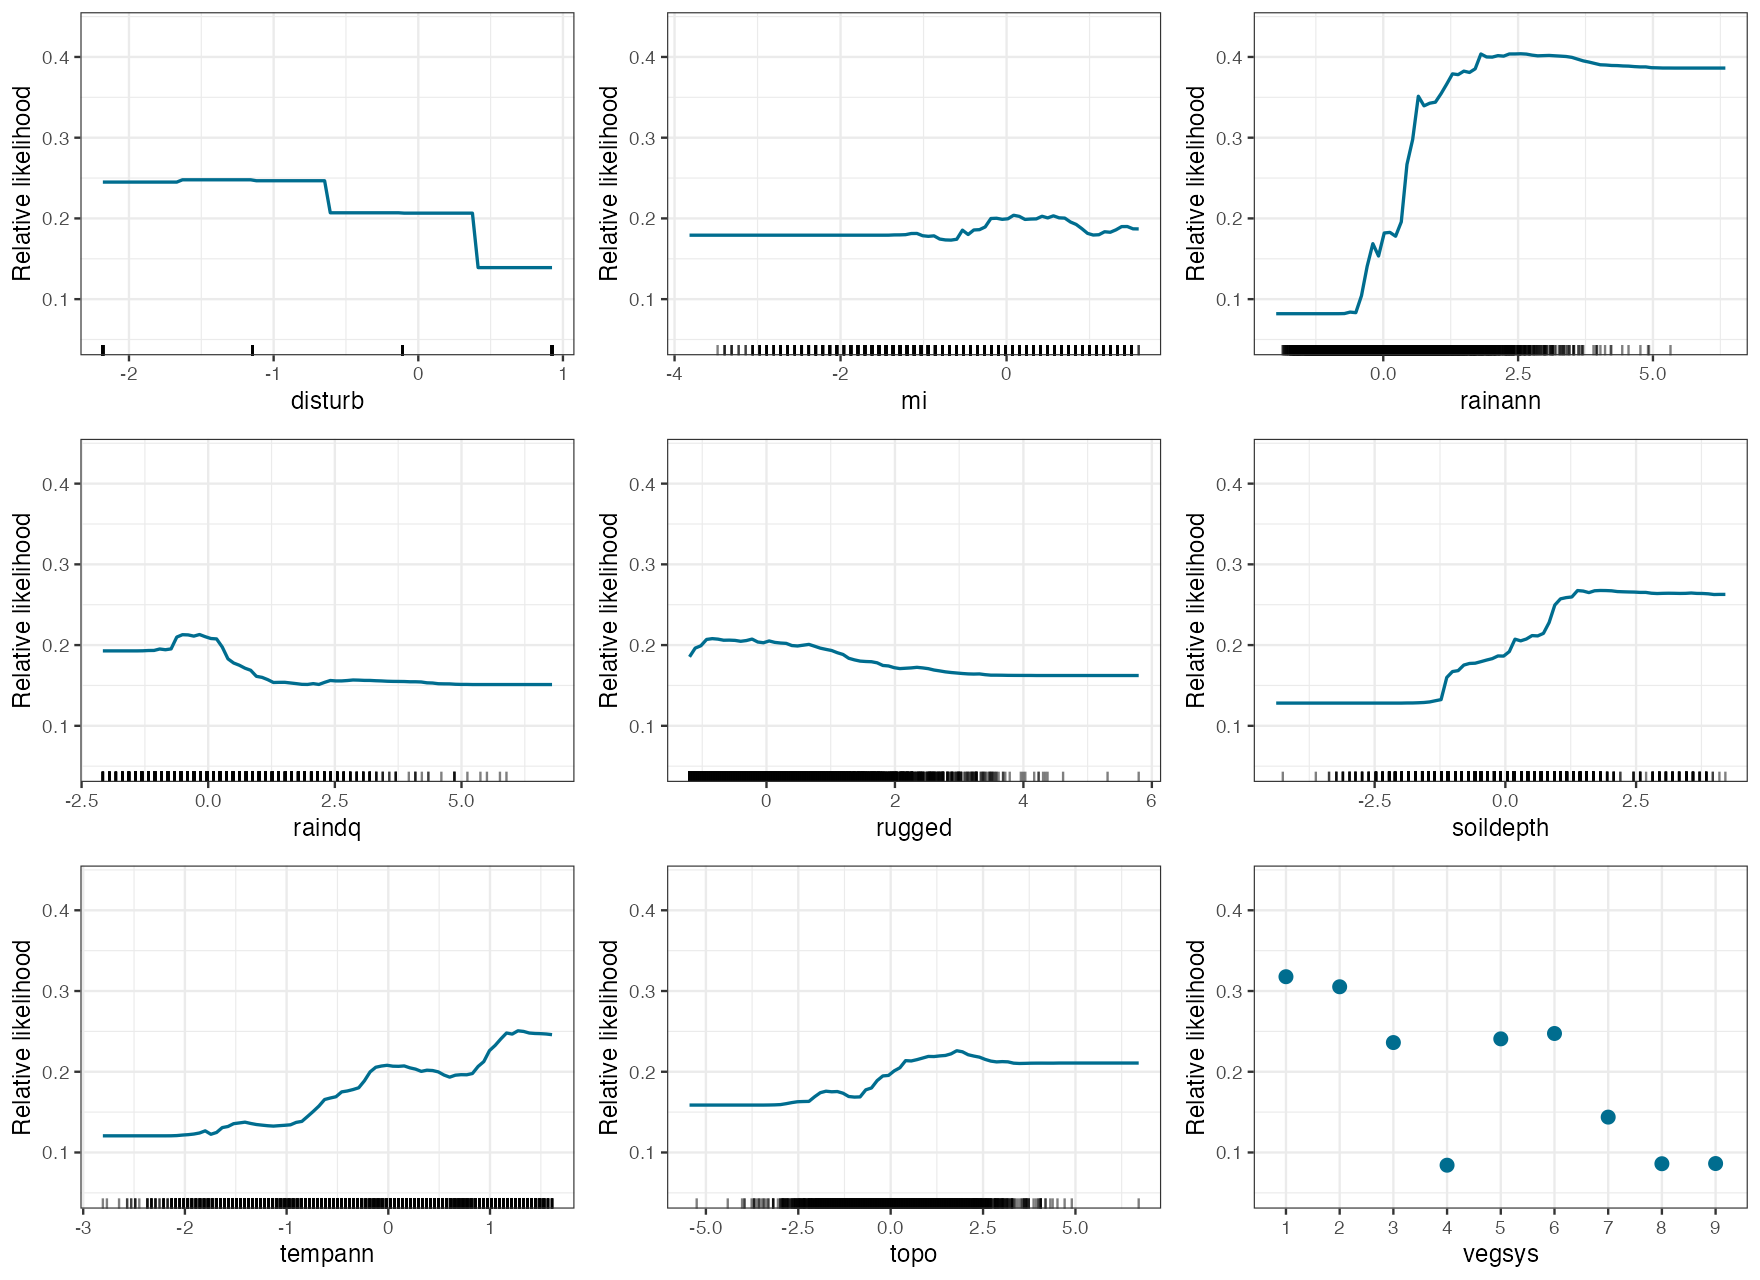
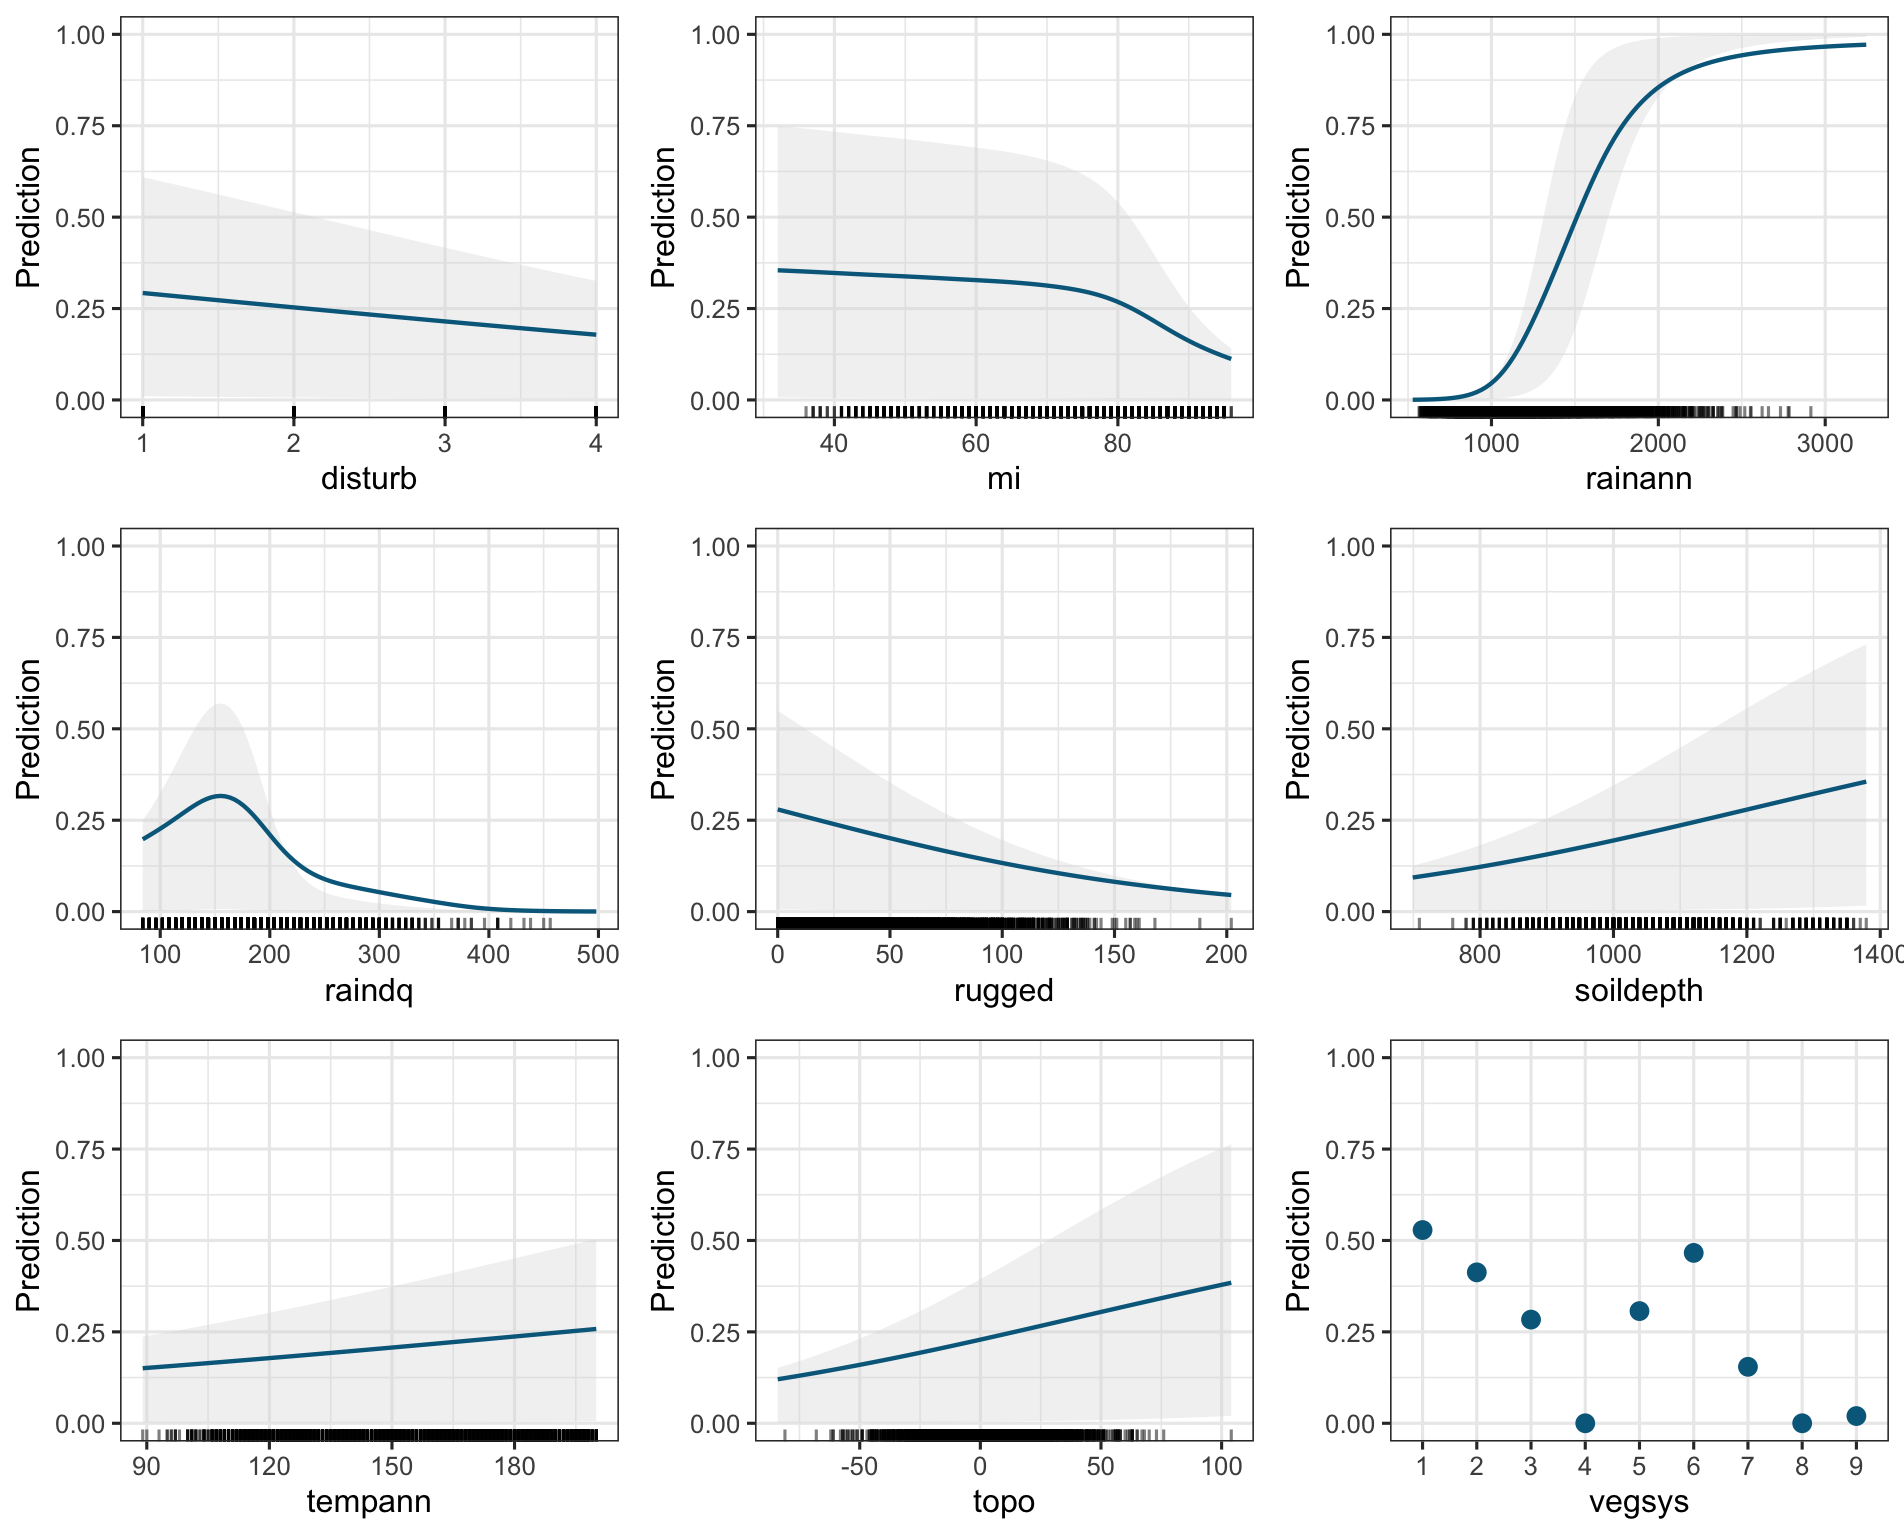
extrapolate ale; multimodel help update

diff --git a/README.md b/README.md
@@ -95,15 +95,17 @@ bivariate(
 )
 ```
 
-For ensemble modelling, pass a list of fitted models to `multimodel()`. The
-ensemble members should be fitted to the same response and compatible
-predictors, and their predictions should be on the same response scale. If a
-set of models shares the same prediction interface, pass non-default
-prediction arguments through `...`. For mixed model types, supply `fun` as a
-list of wrappers, one per model. If a shared prediction function returns
-multiple prediction columns, either set `response` or provide a small wrapper
-through `fun`. Use `agg`, `weights`, `interval`, and `show_models` to control
-how the ensemble curves are combined and displayed.
+For ensemble modelling or repeated-fit comparisons, pass a list of fitted
+models to `multimodel()`. This is useful not only for formal ensembles, but
+also for cross-validation folds, bootstrap or bagged refits, and models fit
+with different background samples or closely related training sets. The models
+should share compatible predictors, and their predictions should be on the
+same response scale. If a set of models shares the same prediction interface,
+pass non-default prediction arguments through `...`. For mixed model types,
+supply `fun` as a list of wrappers, one per model. If a shared prediction
+function returns multiple prediction columns, either set `response` or provide
+a small wrapper through `fun`. Use `agg`, `weights`, `interval`, and
+`show_models` to control how the model curves are combined and displayed.
 
 ```r
 models <- list(

diff --git a/NEWS.md b/NEWS.md
@@ -18,6 +18,9 @@
 - Enabled categorical ALE in `multimodel()` and `mapcurve()`, matching the
   univariate ALE support and using a shared level order across ensemble
   members when `multimodel()` averages unordered factor effects.
+- Added `extrapolate = FALSE` to `bivariate()` so unsupported ALE grid cells
+  remain masked by default but can be shown on request using the interpolated
+  values already used internally for accumulation.
 
 # curves 0.3.0
 
